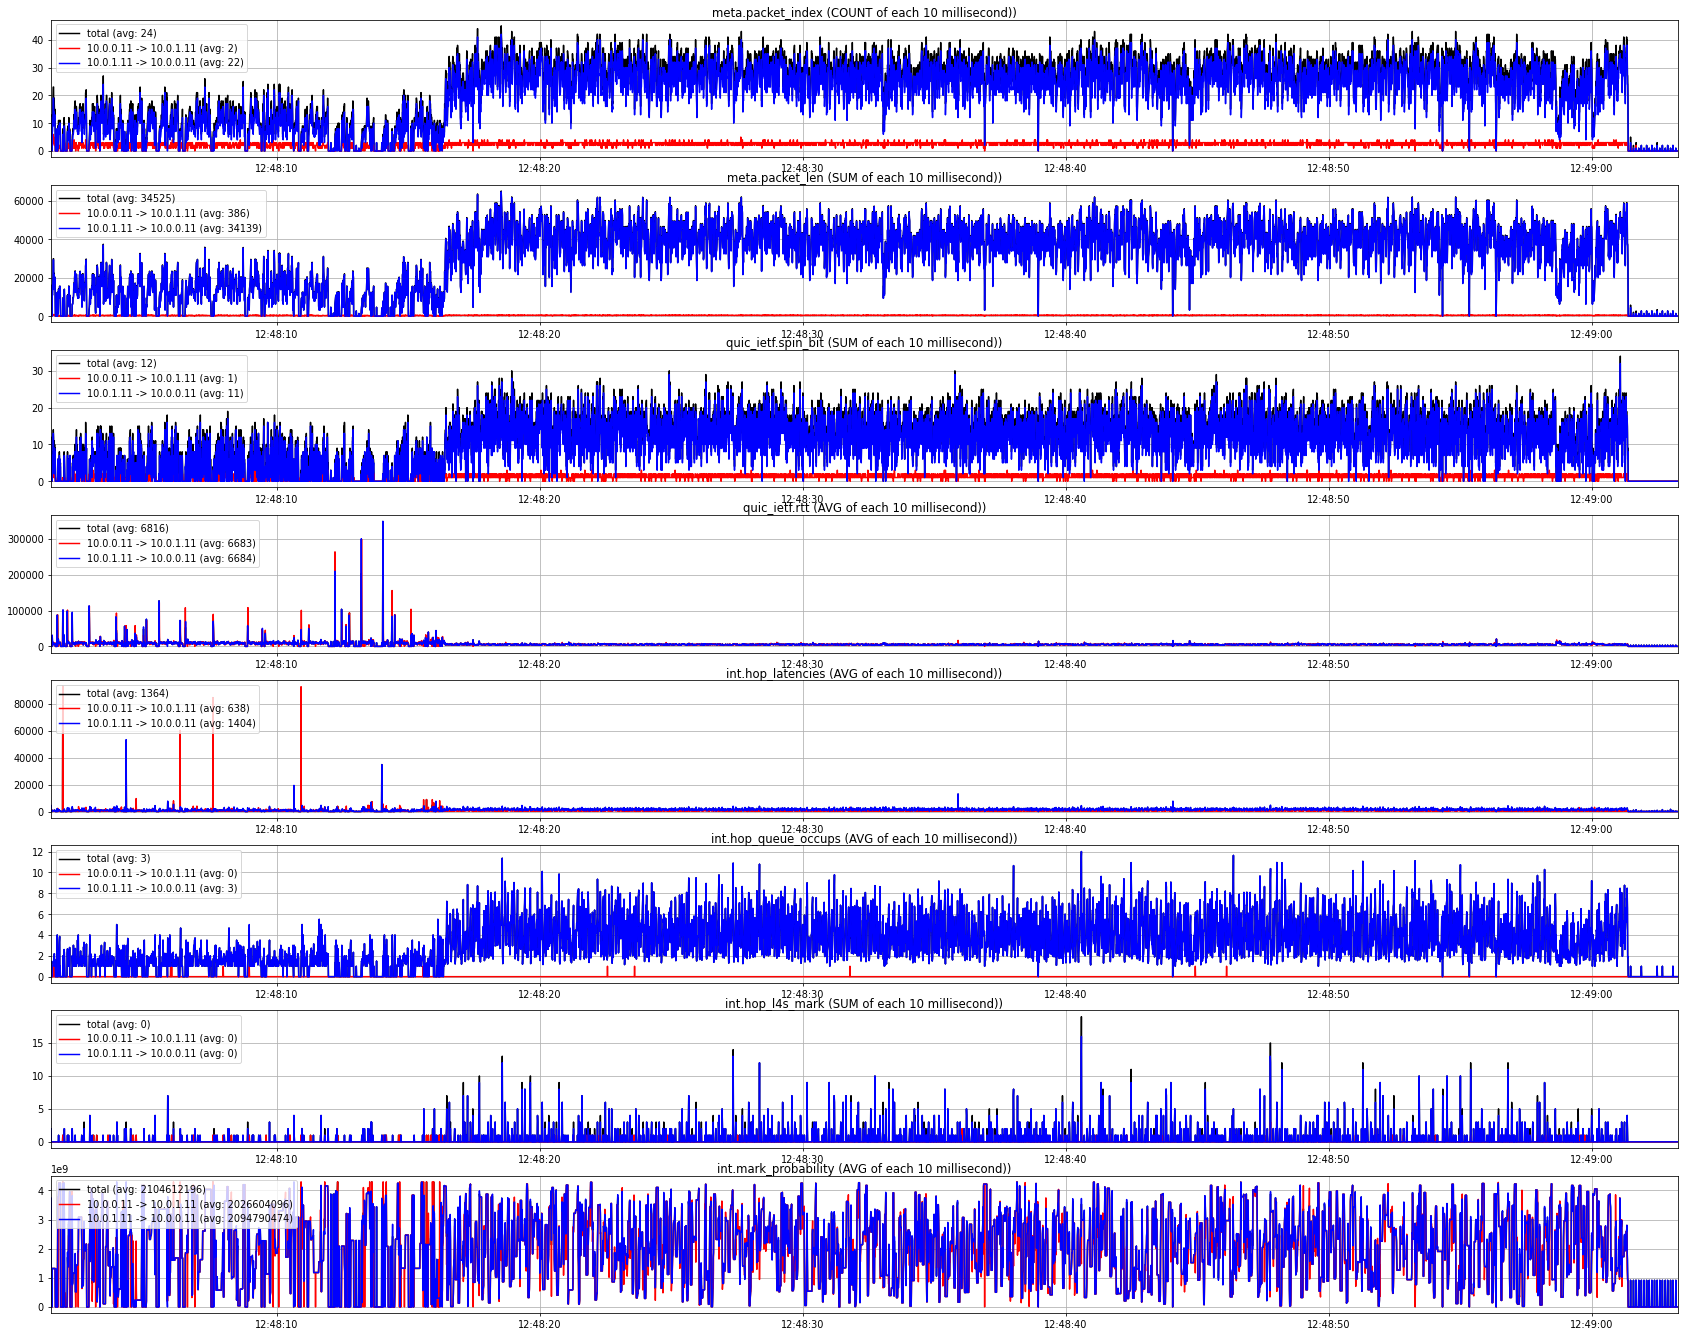
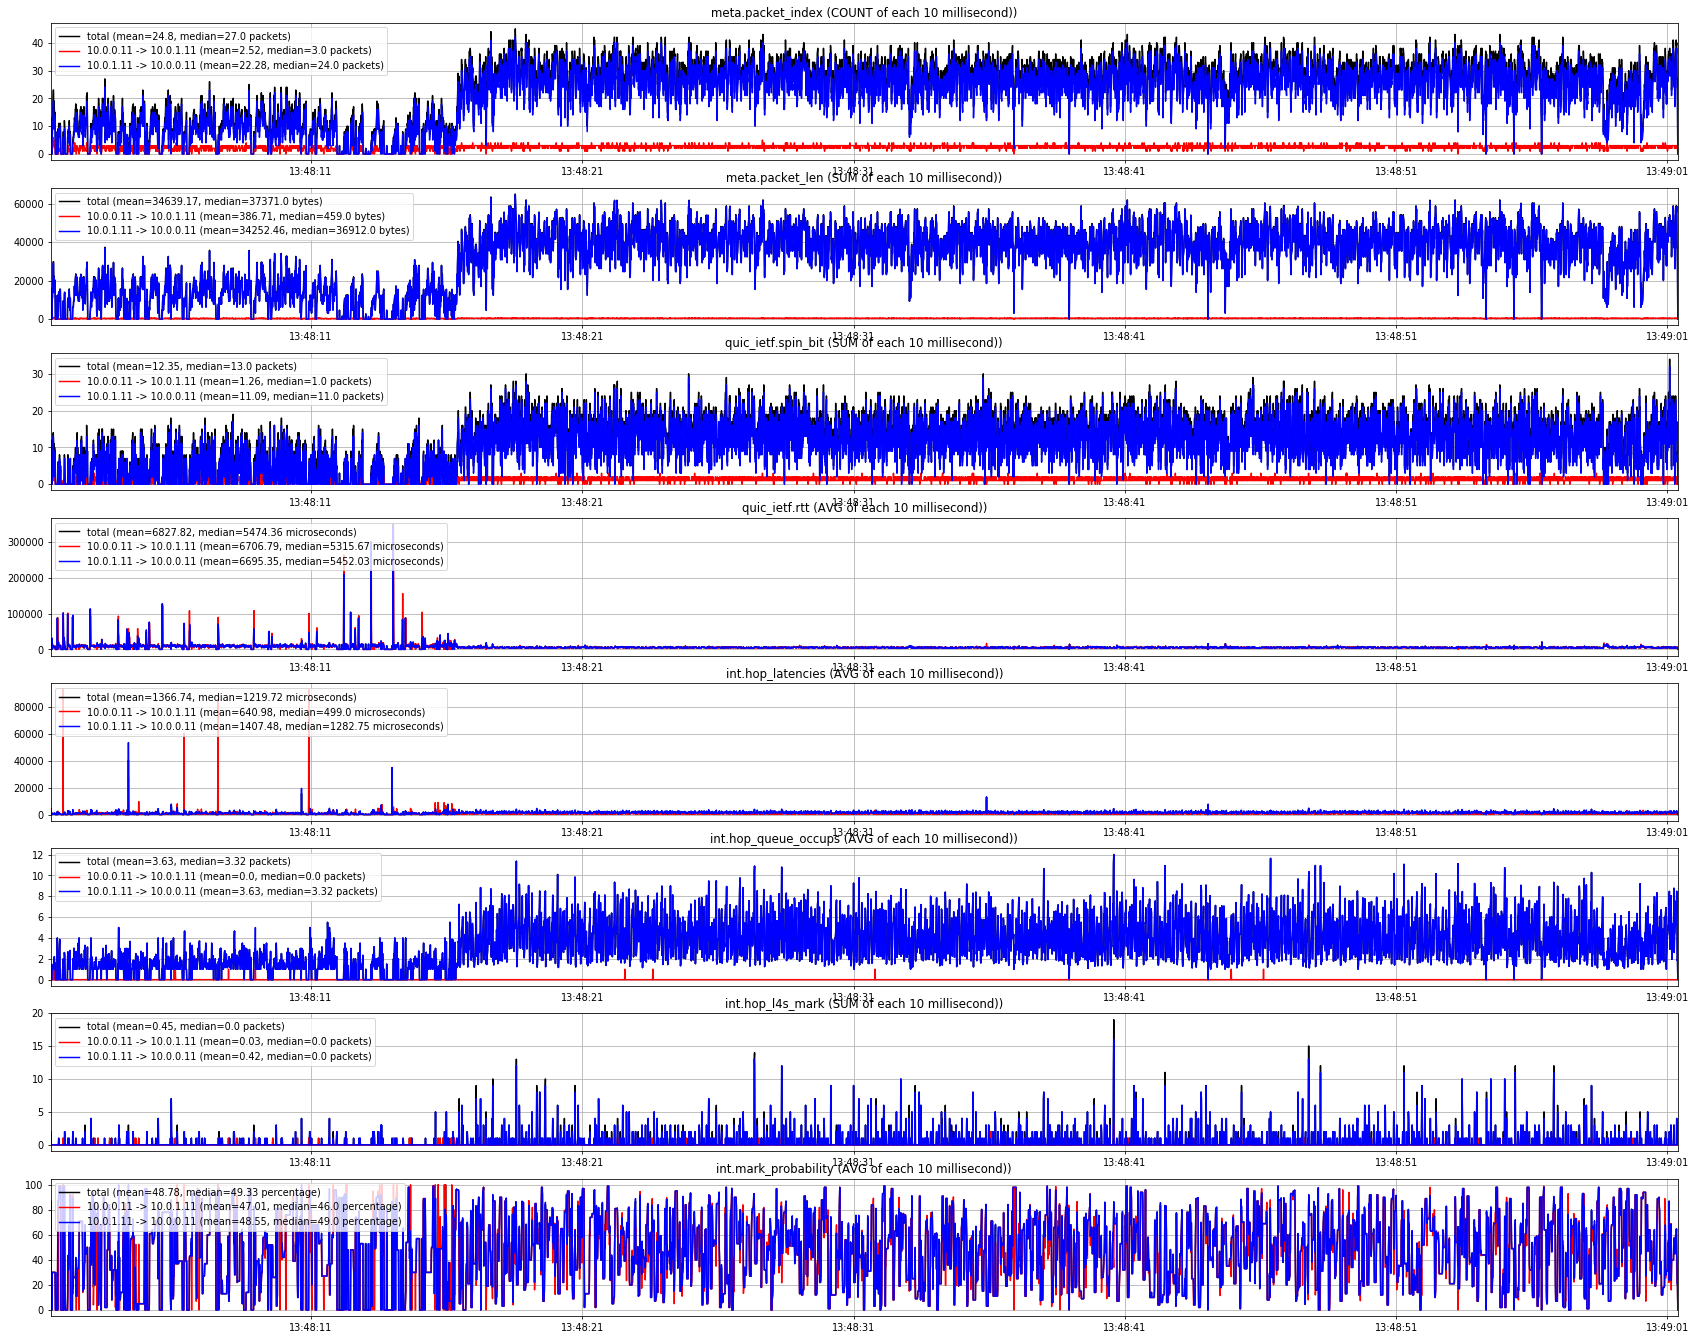
update RTT of TCP, new figures of round-2

diff --git a/testbed/monitoring-mmt-tcpdump.plot.py b/testbed/monitoring-mmt-tcpdump.plot.py
@@ -6,11 +6,14 @@
 #
 # This script parses the data.csv in each test configuration and renders a graph
 #
-
+# TCP rtt is calculated based on tsval and tsecr values
+#
+import re
+import json
 import os
 import matplotlib as mpl
 if os.environ.get('DISPLAY','') == '':
-    print('no display found. Using non-interactive Agg backend')
+    #print('no display found. Using non-interactive Agg backend')
     mpl.use('Agg')
 
 from matplotlib import pyplot as plt
@@ -22,6 +25,10 @@ from matplotlib.lines import Line2D
 from datetime import datetime
 import numpy as np
 
+# number of ticks per second, e.g.,
+# 100 => group by each 10 millisecond
+TICKS_PER_SECOND=100.0
+
 def calcul( func, arr ):
     if len(arr) == 0:
         return 0
@@ -32,20 +39,88 @@ def calcul( func, arr ):
         return np.average( arr )
     elif func == "COUNT":
         return len(arr)
+
+
+def get_tcp_rtt(current_pkt, all_pkts):
+    '''
+    Get RTT in microsecond of TCP packets using tcp.tsval and tcp.tsecr
+    '''
+    ONE_M = 1000000 #microsecond
     
-def read_data(file_name = "data.csv", ts_col="timestamp", cols=[]):
+    # init "static" variables
+    if len( get_tcp_rtt.tsval ) == 0:
+        for pkt in all_pkts:
+            ts = int(float(pkt["timestamp"]) * ONE_M)
+            tsval = pkt["tcp.tsval"]
+            tsecr = pkt["tcp.tsecr"]
+            # get lattest tsval
+            if (tsval not in get_tcp_rtt.tsval) or (get_tcp_rtt.tsval[ tsval ] < ts): 
+                get_tcp_rtt.tsval[ tsval ] = ts
+            # get oldest tsecr
+            if (tsecr not in get_tcp_rtt.tsecr) or (get_tcp_rtt.tsecr[ tsecr ] > ts):
+                get_tcp_rtt.tsecr[ tsecr ] = ts
+
+
+    tsval = current_pkt["tcp.tsval"]
+    tsecr = current_pkt["tcp.tsecr"]
+    ts    = int(float(current_pkt["timestamp"]) * ONE_M)
+
+    delta1 = 0
+    #search packet which is echoed
+    if tsecr in get_tcp_rtt.tsval:
+        delta1 = ts - get_tcp_rtt.tsval[tsecr]
+
+    delta2 = 0
+    #search packet which echos the current packet
+    if tsval in get_tcp_rtt.tsecr:
+        delta2 = get_tcp_rtt.tsecr[tsval] - ts
+
+    if delta1 > 0 and delta2 > 0:
+        return delta1 + delta2
+    elif delta1 < 0 or delta2 < 0:
+        #print("unordered packet")
+        None
+
+    return 0
+# global variables to cache tcp.tsval and tsecr
+get_tcp_rtt.tsval = {}
+get_tcp_rtt.tsecr = {}
+
+
+def read_csv(file_name = "data.csv"):
+    '''
+    Read CSV into an array
+    '''
+    reader = csv.DictReader( open( file_name ), delimiter= ',', )
+    data = []
+    for row in reader:
+        data.append( row )
+    return data
+
+
+def is_tcp_data( data ):
+    '''
+    whether data contain TCP (iperf3) instead of UDP (quic)
+    '''
+    for row in data:
+        if row["tcp.tsval"] != "0" and row["tcp.tsval"] != None:
+            return True
+    return False
+
+
+def process_data(data, ts_col="timestamp", cols=[]):
     '''
     Read data from a csv file. For each line in the csv, extract only the fields naming in `cols`
     return a dict whose keys are timestamp
     '''
-    reader = csv.DictReader( open( file_name ), delimiter= ',', )
-    
     dic={}
     keys=["total"]
 
-    for row in reader:
+    #max of 4 bytes
+    MAX_PROBABILITY = 0xFFFFFFFF
+    for row in data:
         # round the timestamp to millisecond
-        ts = int(float(row[ts_col])*100)
+        ts = int(float(row[ts_col])*TICKS_PER_SECOND)
 
         # initialize
         if ts not in dic:
@@ -63,7 +138,12 @@ def read_data(file_name = "data.csv", ts_col="timestamp", cols=[]):
                 item[i] = {"total": []}
 
             val = 0
-            if i in row:
+            # specific traitment for TCP rtt
+            if i == "tcp.rtt":
+                val = get_tcp_rtt(row, data)
+            elif i == "int.mark_probability":
+                val = int(int(row[i])*100/ MAX_PROBABILITY)
+            elif i in row:
                 val = int(row[i])
 
             # ignore zero value that represent a "not available" avlue
@@ -91,7 +171,7 @@ def read_data(file_name = "data.csv", ts_col="timestamp", cols=[]):
         for i in cols:
             for k in keys:
                 if( k in item[i] ):
-                    item[i][k] = calcul( cols[i], item[i][k] )
+                    item[i][k] = calcul( cols[i]["fun"], item[i][k] )
                 else:
                     item[i][k] = 0
 
@@ -111,22 +191,24 @@ def get(dic, x, index, key):
         ret.append( val )
     return ret
 
-def avg(dic, x, index, key):
+def stats(dic, x, index, key):
     '''
     Get a "column" in the dic
     '''
-    ret = 0
-    counter = 0
+    arr = []
     for i in x:
         #print(i)
         #print(dic)
         if i in dic and key in dic[i][index]:
             #print(dic[i])
-            ret += dic[i][index][key]
-            counter += 1
-    if counter == 0:
-        return 0
-    return int( ret/counter )
+            arr.append( dic[i][index][key] )
+
+    return {
+        "mean"  : round( np.mean( arr ), 2),
+        "median": round( np.median( arr ), 2),
+        "sum"   : np.sum( arr )
+    }
+
 
 if len(sys.argv) != 2:
     print("Usage: {0} file.csv\n".format( sys.argv[0]))
@@ -135,26 +217,42 @@ if len(sys.argv) != 2:
 FILE_PATH = sys.argv[1]
 print("Processing {0}".format( FILE_PATH ))
 
+DATA = read_csv( FILE_PATH )
+
 
 COLS={
     #key : function of calcul
-    "meta.packet_index": "COUNT",
-    "meta.packet_len" : "SUM",
-    "quic_ietf.spin_bit": "SUM", 
-    "quic_ietf.rtt": "AVG",
-    "int.hop_latencies": "AVG",
-    "int.hop_queue_occups": "AVG",
-    "int.hop_l4s_mark": "SUM",
+    "meta.packet_index":    {"fun": "COUNT", "unit": "packets"},
+    "meta.packet_len" :     {"fun": "SUM",   "unit": "bytes"},
+    "quic_ietf.spin_bit":   {"fun": "SUM",   "unit": "packets"}, 
+    "quic_ietf.rtt":        {"fun": "AVG",   "unit": "microseconds"},
+    "int.hop_latencies":    {"fun": "AVG",   "unit": "microseconds"},
+    "int.hop_queue_occups": {"fun": "AVG",   "unit": "packets"},
+    "int.hop_l4s_mark":     {"fun": "SUM",   "unit": "packets"},
     # LL does not drop packets => always zero
     #"int.hop_l4s_drop": "SUM",
-    "int.mark_probability": "AVG"
+    "int.mark_probability": {"fun": "AVG",   "unit": "percentage"}
 }
 
-dic, keys = read_data( FILE_PATH, cols=COLS )
+LATENCY_FIELD="quic_ietf.rtt"
+
+# use tcp
+if is_tcp_data( DATA ):
+    # remove QUIC or UDP
+    # use list() to avoid "RuntimeError: dictionary changed size during iteration"
+    # https://stackoverflow.com/questions/11941817
+    for i in list(COLS):
+        if i.startswith("quic") or i.startswith("udp"):
+            del COLS[i]
+    # add TCP
+    COLS["tcp.rtt"] = {"fun": "AVG", "unit": "microseconds"}
+    LATENCY_FIELD="tcp.rtt"
+
+dic, keys = process_data( DATA, cols=COLS )
 minX=0
 maxX=0
 
-print("number of ticks: {0}".format(len(dic)) )
+print("number of avail ticks: {0}".format(len(dic)) )
 # get min and max timestamp
 for i in dic:
     val = dic[i]["meta.packet_index"]
@@ -173,10 +271,24 @@ for i in dic:
         if i < minX :
             minX = i
 
-# x Axis is a range from min - max
-x = range(minX,maxX)
-xDate = [ datetime.fromtimestamp(ts/100) for ts in x]
+# limit distance between min-max
+# 60 seconds
 
+if maxX - minX > 60*TICKS_PER_SECOND:
+    maxX = minX + 60*TICKS_PER_SECOND
+# 30 second
+elif maxX - minX > 30*TICKS_PER_SECOND:
+    maxX = minX + 30*TICKS_PER_SECOND
+else:
+    print("axis Ox is not available")
+    sys.exit(0)
+
+
+# x Axis is a range from min - max
+x = range(int(minX), int(maxX))
+xDate = [ datetime.fromtimestamp(ts*1.0/TICKS_PER_SECOND) for ts in x]
+
+print("number of ticks to draw: {0}".format(len(x)) )
 
 plt.rcParams['axes.xmargin'] = 0
 plt.rcParams["figure.figsize"] = (30,3*len(COLS) )
@@ -185,24 +297,53 @@ plt.rcParams["figure.figsize"] = (30,3*len(COLS) )
 #plt.subplots_adjust( hspace=100 )
 # number of y ticks
 plt.locator_params(axis='y', nbins=5)
-plt.rcParams['axes.titlepad'] = -14 #push title down (inside the chart) 
+#plt.rcParams['axes.titlepad'] = -14 #push title down (inside the chart) 
 
 #global x_cl, x_ll
 fig,axs=plt.subplots( len(COLS)  )
 
 counter=0
 COLORS=["black", "red", "blue", "magenta"]
+
+result = {}
 for col in COLS:
     ax = axs[counter]
     counter += 1
     color = 0
+    result[col] = {}
+
     for key in keys:
-        label = "{0} (avg: {1})".format( key, avg(dic, x, col, key))
+        stat_val = stats(dic, x, col, key)
+        stat_val["unit"] = COLS[col]["unit"]
+        result[col][key] = stat_val
+
+        label = "{0} (mean={1}, median={2} {3})".format( key, stat_val["mean"], stat_val["median"], COLS[col]["unit"])
         ax.plot( xDate, get(dic, x, col, key), label=label, color=COLORS[ color ] )
         color += 1
-    ax.set_title( "{0} ({1} of each 10 millisecond))".format( col, COLS[col] ))
+    ax.set_title( "{0} ({1} of each 10 millisecond))".format( col, COLS[col]["fun"] ))
     ax.grid()
     ax.legend(loc="upper left")
+
+#print("{0}".format( json.dumps(result, indent=2 )))
+
+
+print("\n")
+
+# FILE_PATH = ".../unrespECN-bw_50Mbps-duration_60s--20230322-124338/data.csv"
+match = re.search(r"(?P<type>(unrespECN|iperf3|legit))-bw_(?P<bw>\d+)Mbps-duration_(?P<duration>\d+)s", FILE_PATH)
+
+print("traffic type | limited bw (Mbps) | mean bw (Mbps) | duration (s) | nb step mark | mean queue delay (ms) | median queue delay (ms) | mean total delay (ms)")
+print("{0:>12} | {1:>17} | {2:>14} | {3:>12} | {4:>12} | {5:>21} | {6:>23} | {7:>21}".format(
+    match["type"],
+    match["bw"],
+    round( result["meta.packet_len"]["total"]["mean"] * 8 * TICKS_PER_SECOND / 1000000, 2),
+    (maxX - minX) / TICKS_PER_SECOND,
+    result["int.hop_l4s_mark"]["total"]["sum"],
+    round(result["int.hop_latencies"]["total"]["mean"]   / 1000, 2),
+    round(result["int.hop_latencies"]["total"]["median"] / 1000, 2),
+    round(result[LATENCY_FIELD]["total"]["mean"] / 1000, 2),
+))
+print("\n")
 
 # Save as pdf
 #plt.savefig( "{0}-{1}-pps.pdf".format(FILE_NAME, TS_COL_INDEX), dpi=60, format='pdf', bbox_inches='tight')
@@ -210,5 +351,5 @@ output =  "{0}.png".format(FILE_PATH)
 print("write to {0}".format( output ))
 plt.savefig( output, dpi=70, format='png', bbox_inches='tight')
 
-if os.environ.get('DISPLAY','') != '':
-    plt.show()
+#if os.environ.get('DISPLAY','') != '':
+#    plt.show()

diff --git a/testbed/measure-calibration/round-2/traffic-summary.md b/testbed/measure-calibration/round-2/traffic-summary.md
@@ -1,0 +1,32 @@
+| traffic type | limited bw (Mbps) | mean bw (Mbps) | duration (s) | nb step mark | mean queue delay (ms) | median queue delay (ms) | mean total delay (ms) |
+| ------------ | ----------------- | -------------- | ------------ | ------------ | --------------------- | ----------------------- | --------------------- |
+|       iperf3 |               100 |          36.26 |         30.0 |         2490 |                  2.36 |                     2.3 |                   4.9 |
+|       iperf3 |               100 |          23.63 |         60.0 |         3454 |                   1.9 |                    1.23 |                 17.84 |
+|       iperf3 |                10 |           5.25 |         30.0 |         1554 |                  5.04 |                    2.58 |                 20.18 |
+|       iperf3 |                10 |           7.64 |         60.0 |         4482 |                  3.45 |                    2.69 |                  9.51 |
+|       iperf3 |                20 |          16.87 |         30.0 |         2849 |                  2.78 |                    2.71 |                  5.39 |
+|       iperf3 |                20 |          17.24 |         60.0 |         5330 |                  2.74 |                    2.71 |                   5.3 |
+|       iperf3 |                50 |          18.99 |         30.0 |         2359 |                  2.28 |                    1.49 |                 14.92 |
+|       iperf3 |                50 |          23.24 |         60.0 |         5244 |                  2.21 |                    1.92 |                  8.18 |
+|       iperf3 |                 5 |           3.86 |         30.0 |         2205 |                  4.02 |                    3.07 |                 14.18 |
+|       iperf3 |                 5 |           3.37 |         60.0 |         3182 |                  5.58 |                    2.95 |                 21.13 |
+|        legit |               100 |          37.87 |         30.0 |         2618 |                  1.52 |                    1.44 |                  4.64 |
+|        legit |               100 |          34.56 |         60.0 |         5744 |                  1.56 |                    1.44 |                  4.97 |
+|        legit |                10 |           9.44 |         30.0 |         7912 |                  2.66 |                    2.59 |                  6.93 |
+|        legit |                10 |           8.38 |         60.0 |        14206 |                  3.02 |                    2.62 |                  8.35 |
+|        legit |                20 |          16.16 |         30.0 |         5413 |                  2.15 |                    2.04 |                   5.7 |
+|        legit |                20 |          16.03 |         60.0 |         9270 |                  2.11 |                    2.02 |                  5.42 |
+|        legit |                50 |          14.94 |         30.0 |         1436 |                  1.93 |                    1.21 |                 10.31 |
+|        legit |                50 |          11.93 |         60.0 |         1845 |                   2.5 |                    1.17 |                 14.21 |
+|        legit |                 5 |           4.95 |         30.0 |        10159 |                  5.23 |                    5.22 |                 11.49 |
+|        legit |                 5 |            5.2 |         60.0 |        23121 |                  4.71 |                    4.64 |                 13.27 |
+|    unrespECN |               100 |          38.01 |         30.0 |         2541 |                  1.48 |                    1.37 |                  4.93 |
+|    unrespECN |               100 |          27.71 |         60.0 |         2578 |                  1.37 |                    1.22 |                  6.83 |
+|    unrespECN |                10 |           6.69 |         30.0 |         5299 |                  3.94 |                    2.75 |                 11.04 |
+|    unrespECN |                10 |           9.49 |         60.0 |        15505 |                  2.61 |                    2.55 |                  6.92 |
+|    unrespECN |                20 |          15.76 |         30.0 |         4863 |                  2.15 |                    2.05 |                  5.59 |
+|    unrespECN |                20 |           8.11 |         60.0 |         4963 |                  4.58 |                    2.08 |                 15.07 |
+|    unrespECN |                50 |          13.42 |         30.0 |         1033 |                  2.15 |                    1.15 |                 12.93 |
+|    unrespECN |                50 |          17.83 |         60.0 |         4161 |                  2.88 |                    1.41 |                 13.94 |
+|    unrespECN |                 5 |           5.17 |         30.0 |        11172 |                  4.69 |                    4.61 |                   0.0 |
+|    unrespECN |                 5 |           4.74 |         60.0 |        14622 |                  5.86 |                    4.31 |                 15.07 |
